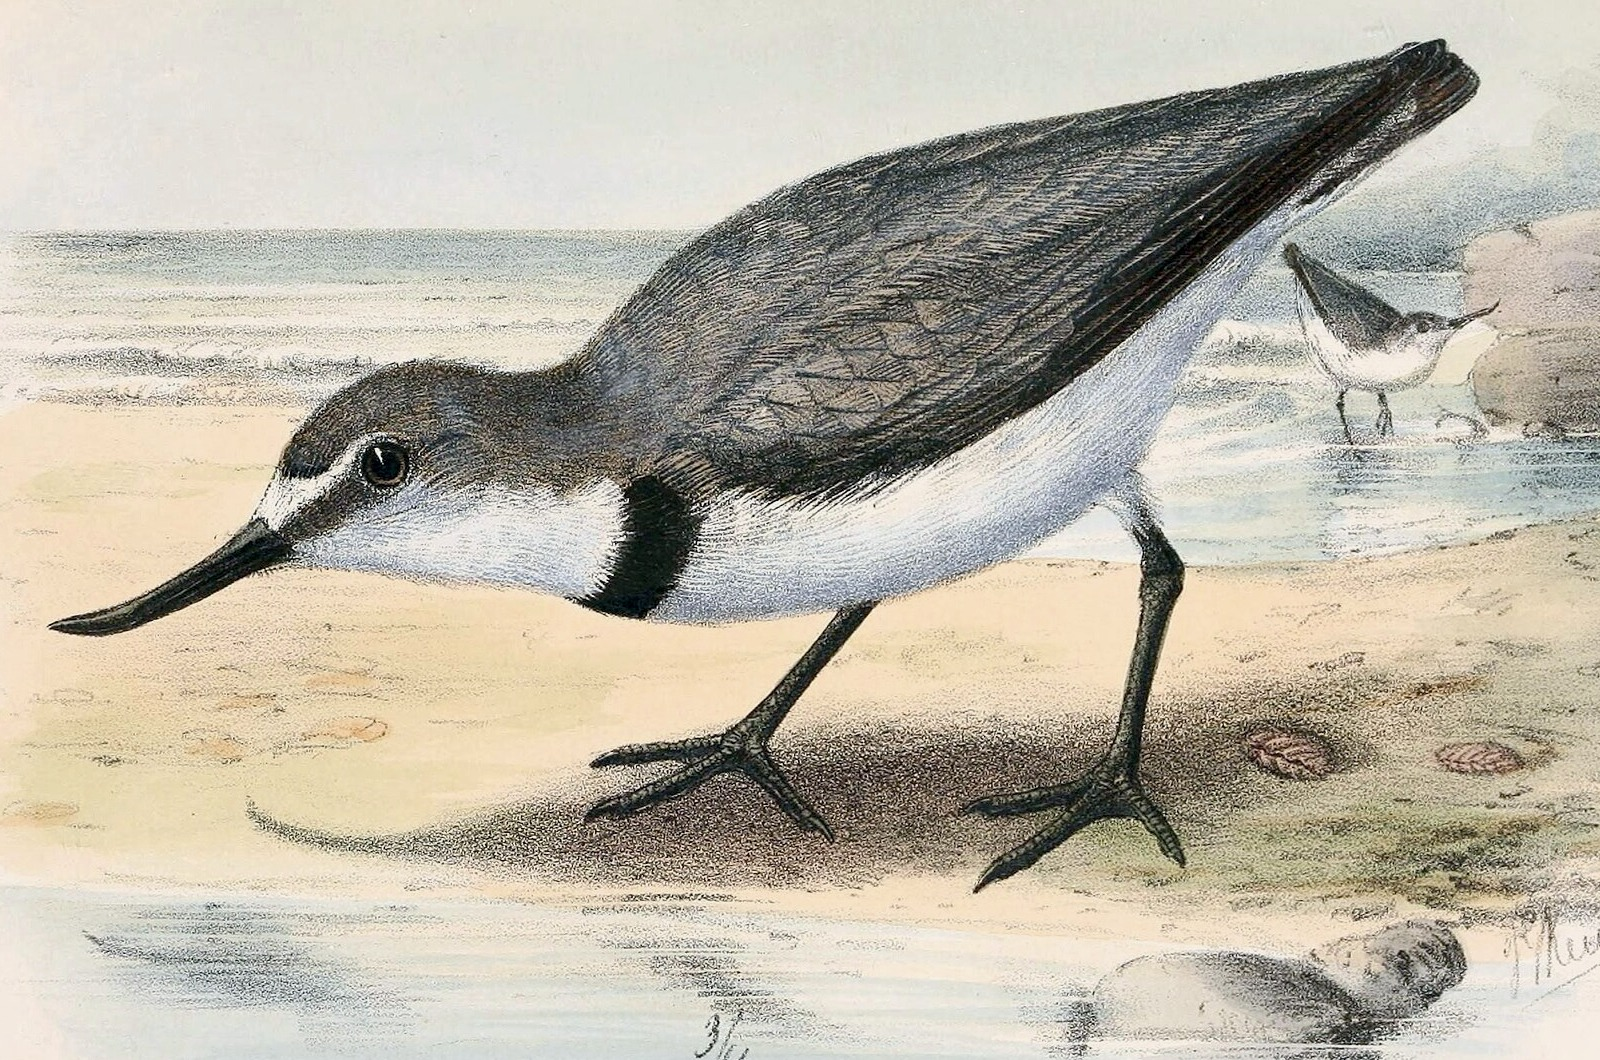
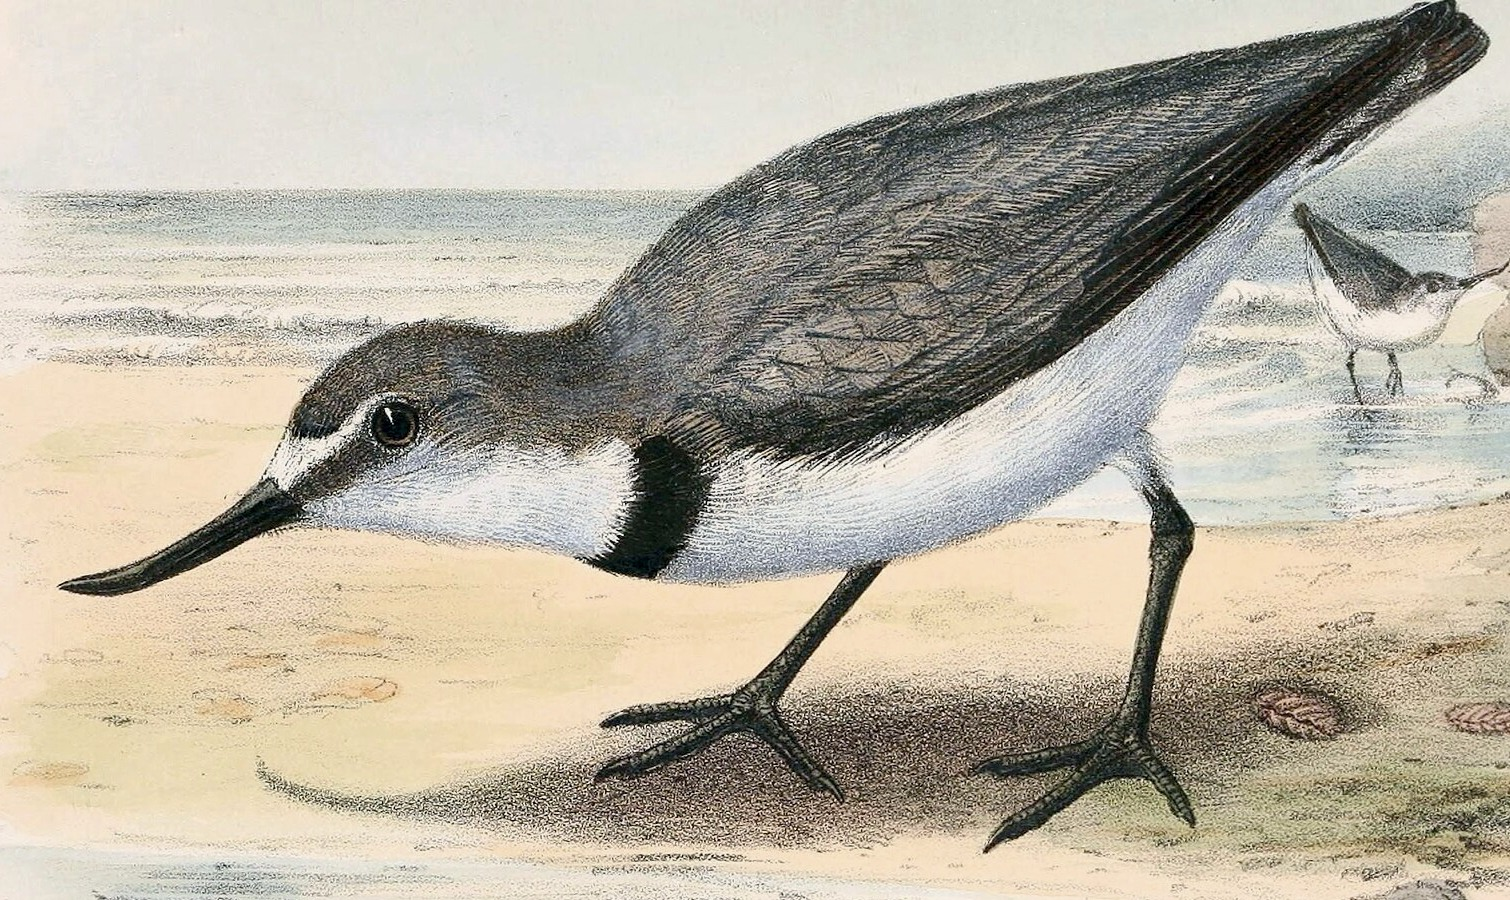
Fichas NZ v2: borrador 2 de Canterbury, estilo postal
Papel claro con borde, acentos de color por sección y el mapa de ubicación
como estampilla. El wrybill se recorta alrededor del pájaro y se dibuja con
un trazo más fino y oscuro (imagen_lapiz con fino=True), así se lee el pico.
Textos de plata, clima y curiosidad más cortos para que la ficha entre en
la hoja sin errores del chequeo.

Claude-Session: https://claude.ai/code/session_01DF7tcoEhYSS7u9YnchPCWs

diff --git a/estilo/ficha-nz.css b/estilo/ficha-nz.css
@@ -78,3 +78,24 @@
 .ficha2 .curiosidad .cultura { color: #33424f; margin-top: 2mm; }
 .ficha2 .curiosidad .cultura b { color: var(--m-costa); }
 .ficha2 { gap: 2mm; }
+
+/* ===== Postal: papel claro, acentos de color por sección, estampilla ===== */
+.ficha2 { padding: 13mm 14mm; background: none; }
+.ficha2::before { content: ""; position: absolute; inset: 8.6mm; background: #f6efdf; border-radius: 3mm;
+  border: 0.35mm solid #d9c9a8; z-index: 0; }
+.ficha2 > * { position: relative; z-index: 1; }
+.ficha2 .coleccion { color: #b5532a; }
+.ficha2 h1 { color: #1d2a36; }
+.ficha2 .mapa-region { border: 1.4mm solid white; border-radius: 2mm; box-sizing: content-box; }
+.ficha2 .sello { position: relative; background: white; padding: 1.8mm; border: 0.7mm dotted #c4ab80; transform: rotate(2.5deg); }
+.ficha2 .sello .n { position: absolute; right: 1.6mm; bottom: 1mm; font-family: var(--fuente-titulo); font-weight: 800; font-size: 13pt; color: #b5532a; }
+.ficha2 .trabajo h2 { color: #2f6e44; border-color: #2f6e44; }
+.ficha2 .trabajo h3 { color: #2f6e44; }
+.ficha2 .plata h2 { color: #9a6a12; border-color: #9a6a12; }
+.ficha2 .clima-s h2 { color: #2a69a8; border-color: #2a69a8; }
+.ficha2 .conocer h2 { color: #b5532a; border-color: #b5532a; }
+.ficha2 .sec .barra { background: rgba(120, 100, 70, 0.14); }
+.ficha2 .temporada td { background: rgba(120, 100, 70, 0.1); }
+.ficha2 .temporada td.m { background: none; }
+.ficha2 .pie { border-top-color: #cbb895; color: #5b5145; }
+.ficha2 { padding: 12mm 14mm 10.5mm; }

diff --git a/herramientas/fichas_nz2.py b/herramientas/fichas_nz2.py
@@ -22,7 +22,7 @@ from glifos import glifo_html
 
 FECHA = '2026-10-22'
 VERSION = 2
-MAPA_W, MAPA_H = 190, 86
+MAPA_W, MAPA_H = 182, 84
 ESTILO = {
     'agua': (3.35, 'texto', 400, 0.15), 'lago': (3.0, 'texto', 400, 0), 'sierra': (4.6, 'titulo', 700, 1.2),
     'sierra-chica': (3.0, 'texto', 700, 0.5), 'isla': (3.0, 'texto', 700, 0), 'rio': (2.95, 'texto', 400, 0),
@@ -222,9 +222,9 @@ def mapa(r, destino_jpg):
     cur = json.loads((DATOS / 'curiosidades-regiones.json').read_text()).get(iso, {})
     if cur.get('dibujo_mapa'):
         dx, dy, dw = cur['dibujo_mapa']
-        src = imagen_lapiz(cur['imagen'], 900, vineta=0.3)
+        src = imagen_lapiz(cur['imagen'], 1400, vineta=0.12, fino=True)
         capas.append(f'<image class="dibujo-mapa" href="{src}" x="{dx}" y="{dy}" width="{dw}"/>')
-        col.ocupar((dx, dy, dx + dw, dy + dw * 0.66))
+        col.ocupar((dx, dy, dx + dw, dy + dw * cur.get('proporcion', 0.6)))
     capas += textos
     # Escala gráfica, en la primera esquina libre
     km = next(v for v in (5, 10, 20, 25, 50, 100) if v * 1000 * E.k >= 18)
@@ -290,16 +290,16 @@ def bloque_trabajo(r):
             f'<div class="sectores">{filas}</div>'
             '<h3>Cuándo hay temporada</h3>'
             f'<table class="temporada">{cab}{"".join(filas_cal)}</table>'
-            '<p class="nota">Orientativo (Work and Income); el recuadro marca los meses de más trabajo.</p>')
+            '<p class="nota">Orientativo (Work and Income); con recuadro, los meses pico.</p>')
 
 
 def bloque_plata(r, p):
     cuarto = round(r['alquiler'] / 3 / 5) * 5
     horas = cuarto / p['salario_minimo']
     return ('<h2>Plata</h2><div class="cifras">'
-            f'<div><b>NZ$ {r["alquiler"]}</b><span>por semana, alquilar una casa entera (mediana, jun. 2026)</span></div>'
-            f'<div><b>≈ NZ$ {cuarto}</b><span>un cuarto en casa compartida (estimado: un tercio)</span></div>'
-            f'<div><b>{num(horas, 1)} h</b><span>de trabajo con salario mínimo para pagar ese cuarto</span></div></div>')
+            f'<div><b>NZ$ {r["alquiler"]}</b><span>por semana, una casa entera (mediana)</span></div>'
+            f'<div><b>≈ NZ$ {cuarto}</b><span>un cuarto compartido (un tercio)</span></div>'
+            f'<div><b>{num(horas, 1)} h</b><span>de salario mínimo pagan ese cuarto</span></div></div>')
 
 
 def bloque_clima(r, todas):
@@ -308,15 +308,15 @@ def bloque_clima(r, todas):
     def puesto(clave, valor, alto, bajo):
         orden = sorted(o[clave] for o in otras)
         f = orden.index(valor) / max(1, len(orden) - 1)
-        return alto if f > 0.66 else bajo if f < 0.34 else 'en el medio del país'
+        return alto if f > 0.66 else bajo if f < 0.34 else 'media'
     lugar = es['n'].replace(' (la más cercana)', '')
     return (f'<h2>Clima <span class="donde">en {esc(lugar)}</span></h2><div class="clima">'
             f'<div><span class="ic sol"></span><b>{num(es["max"], 1)} °C</b><span>máxima de {es["mes_max"].lower()}: '
-            f'{puesto("max", es["max"], "de las más calurosas", "de las más frescas")}</span></div>'
+            f'{puesto("max", es["max"], "calurosa", "fresca")}</span></div>'
             f'<div><span class="ic frio"></span><b>{num(es["min_jul"], 1)} °C</b><span>mínima de julio: '
-            f'{puesto("min_jul", es["min_jul"], "de las menos frías", "de las más frías")}</span></div>'
-            f'<div><span class="ic lluvia"></span><b>{num(es["lluvia"])} mm</b><span>de lluvia por año, {es["dias"]} días: '
-            f'{puesto("lluvia", es["lluvia"], "de las más lluviosas", "de las más secas")}</span></div></div>')
+            f'{puesto("min_jul", es["min_jul"], "templada", "fría")}</span></div>'
+            f'<div><span class="ic lluvia"></span><b>{num(es["lluvia"])} mm</b><span>de lluvia al año: '
+            f'{puesto("lluvia", es["lluvia"], "lluvioso", "seco")}</span></div></div>')
 
 
 def bloque_lugares(r):
@@ -351,7 +351,7 @@ def ficha(r, D, destino):
 <link rel="stylesheet" href="../../estilo/ficha-nz.css">
 </head>
 <body>
-<div class="hoja ficha2 mural" data-tinta-max="35">
+<div class="hoja ficha2 mural" data-tinta-max="40">
   <header class="cabecera">
     <div>
       <span class="coleccion">Atlas de Nueva Zelanda · región {r["n"]} de 16 · {isla}</span>
@@ -360,7 +360,7 @@ def ficha(r, D, destino):
       <p class="maori">{f'En māori: <b>{esc(r["mi"])}</b> · ' if r.get('mi') else ''}iwi: <b>{esc(", ".join(r["iwi"]))}</b></p>
     </div>
     <div class="lado">
-      {mapa_ubicacion(r["iso"])}
+      <div class="sello">{mapa_ubicacion(r["iso"])}<span class="n">{r["n"]}</span></div>
       <div class="datos"><div><b>{num(r["poblacion"])}</b>habitantes</div><div><b>{num(r["superficie"])}</b>km²</div></div>
     </div>
   </header>
@@ -377,8 +377,8 @@ def ficha(r, D, destino):
     <section class="curiosidad">{bloque_curiosidad(r)}<p class="cultura"><b>Cultura māori.</b> {esc(r["cultura"])}</p></section>
   </div>
   <footer class="pie" data-meta>
-    <span>{codigo} · v{VERSION} · {FECHA} · mural NZ-A-00, pieza {pieza_mural(r)} · Fuentes: Stats NZ (Censo 2023, sectores
-    2022–2025), Work and Income, NIWA 1991–2020, Tenancy Services (jun. 2026), Employment NZ, Te Ara, LINZ, DOC.</span>
+    <span>{codigo} · v{VERSION} · {FECHA} · mural NZ-A-00, pieza {pieza_mural(r)}</span>
+    <span>Fuentes: Stats NZ, Work and Income, NIWA, Tenancy Services, Employment NZ, Te Ara, LINZ, DOC</span>
   </footer>
 </div>
 </body>

diff --git a/herramientas/bloques_mural.py b/herramientas/bloques_mural.py
@@ -308,21 +308,23 @@ def bloques(C, E):
 CUR = json.loads((RAIZ / 'datos' / 'nz' / 'curiosidades.json').read_text())
 
 
-def imagen_lapiz(slug, ancho_px, vineta=0.0):
+def imagen_lapiz(slug, ancho_px, vineta=0.0, fino=False):
     """Versión a lápiz de imagenes/<slug>/maestra.jpg: el trazo sale de una sobreexposición de color (gris sobre su
     negativo desenfocado) y queda en grafito con transparencia, así se apoya en el mar sin recuadro. 'vineta'
-    (0 a 1) desvanece los bordes hacia afuera. Devuelve la ruta relativa a hojas/nz-a/ y salida/pruebas/."""
+    (0 a 1) desvanece los bordes hacia afuera. 'fino' da un trazo más delgado y oscuro, para dibujos que se
+    ven grandes (el pico de un pájaro, por ejemplo). Devuelve la ruta relativa a hojas/nz-a/ y salida/pruebas/."""
     import numpy as np
     from PIL import Image, ImageFilter
-    destino = RAIZ / 'hojas' / 'nz-a' / 'img' / f'{slug}-lapiz.png'
+    destino = RAIZ / 'hojas' / 'nz-a' / 'img' / f'{slug}-lapiz{"-fino" if fino else ""}.png'
     if not destino.exists():
         destino.parent.mkdir(parents=True, exist_ok=True)
         im = Image.open(RAIZ / 'imagenes' / slug / 'maestra.jpg').convert('L')
         im = im.resize((ancho_px, round(im.height * ancho_px / im.width)), Image.LANCZOS)
         g = np.asarray(im).astype(float)
-        borroso = np.asarray(Image.fromarray((255 - g).astype('uint8')).filter(ImageFilter.GaussianBlur(ancho_px / 150)))
+        radio, rango, curva = (ancho_px / 260, 85, 0.65) if fino else (ancho_px / 150, 105, 0.75)
+        borroso = np.asarray(Image.fromarray((255 - g).astype('uint8')).filter(ImageFilter.GaussianBlur(radio)))
         trazo = np.clip(g * 255 / np.maximum(1, 255 - borroso.astype(float)), 0, 255)
-        oscuro = np.clip((250 - trazo) / 105, 0, 1) ** 0.75
+        oscuro = np.clip((250 - trazo) / rango, 0, 1) ** curva
         if vineta:
             h, w = oscuro.shape
             yy, xx = np.mgrid[0:h, 0:w]
@@ -332,7 +334,7 @@ def imagen_lapiz(slug, ancho_px, vineta=0.0):
         rgba[..., :3] = (58, 48, 40)  # grafito cálido
         rgba[..., 3] = (oscuro * 235).astype('uint8')
         Image.fromarray(rgba, 'RGBA').save(destino, optimize=True)
-    return f'../../hojas/nz-a/img/{slug}-lapiz.png'
+    return f'../../hojas/nz-a/img/{destino.name}'
 
 
 def curiosidades():
